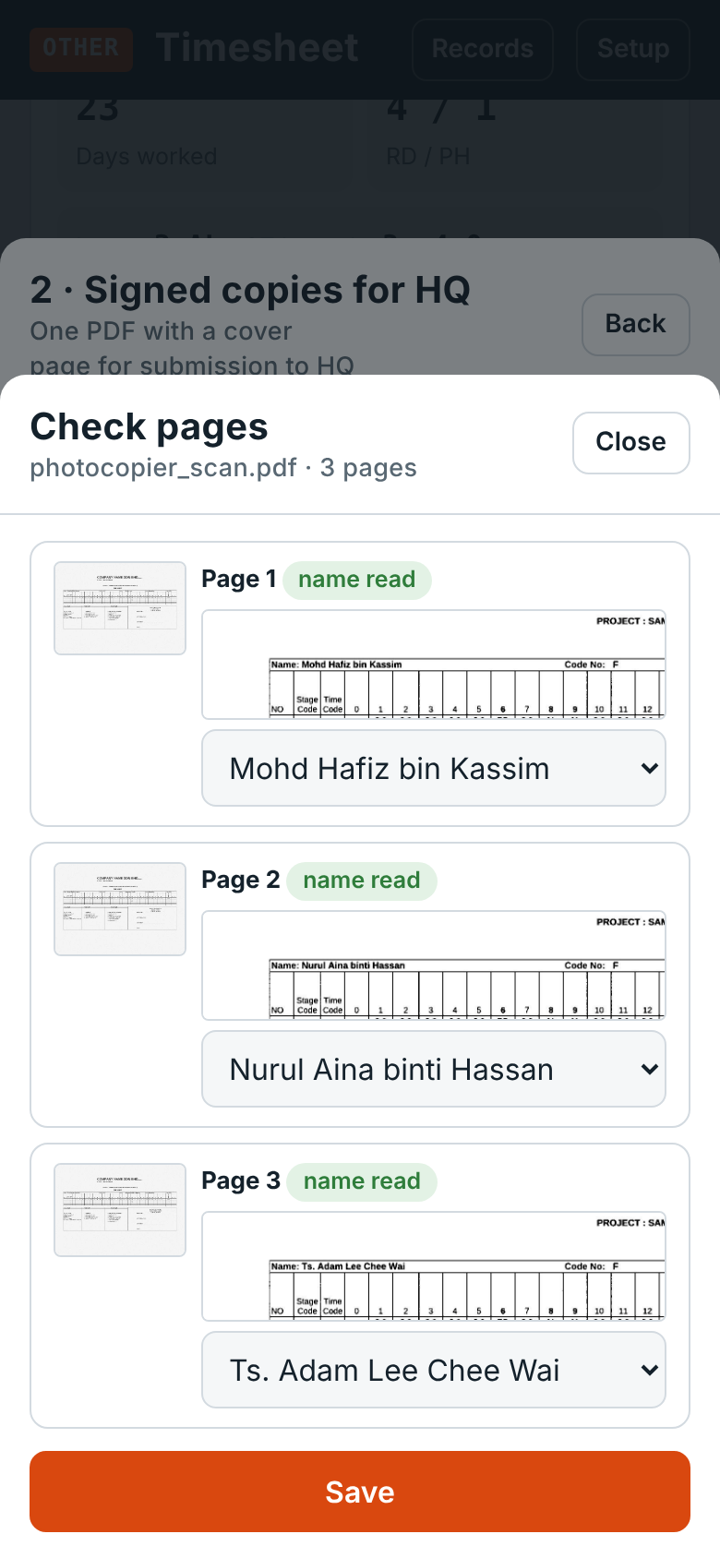
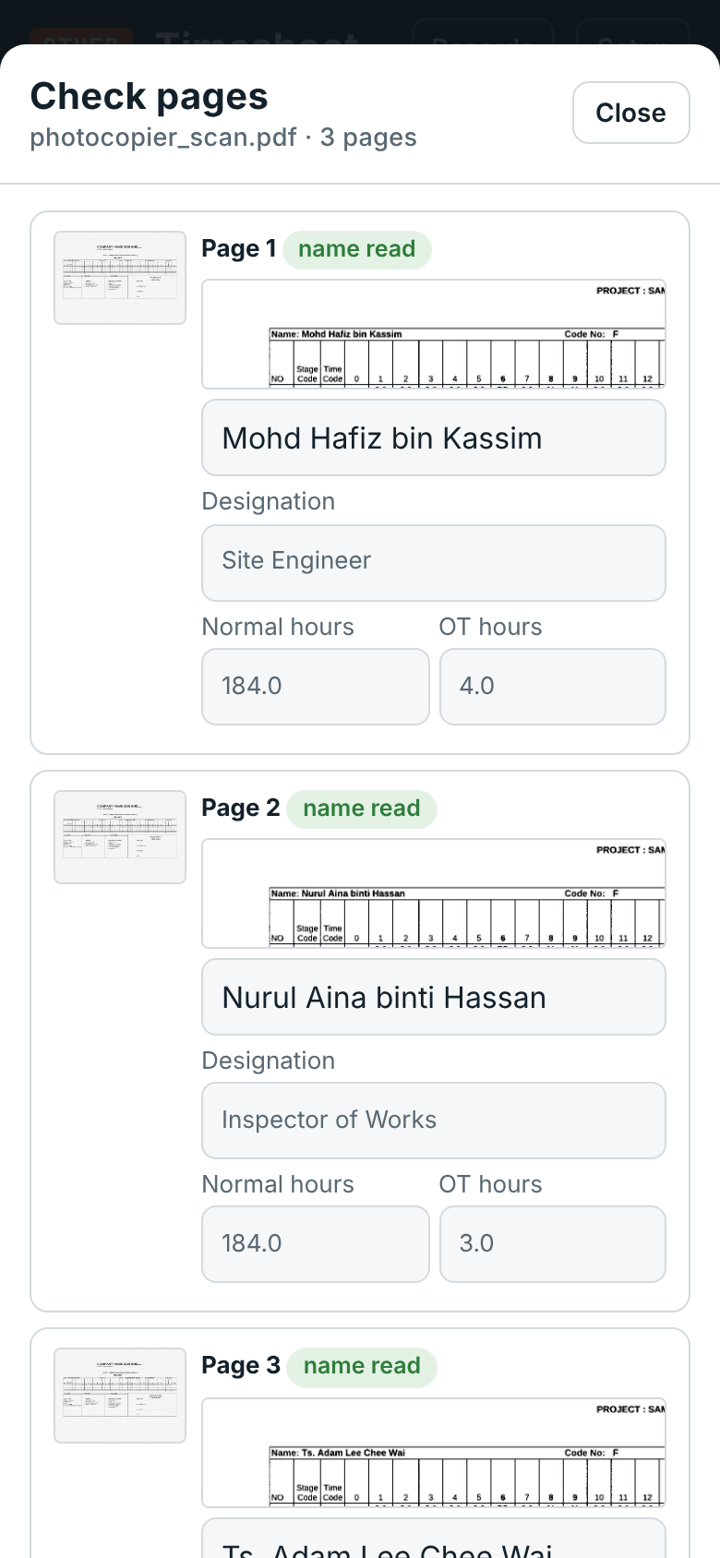
v0.9.7 beta

diff --git a/index.html b/index.html
@@ -475,7 +475,7 @@ table.tbl td.n{font-family:var(--f-mono);text-align:right}
    on the device. Credit: fixed in the app, not taken from any package.
    ================================================================ */
 const APP_NAME = "Timesheet";
-const APP_VERSION = "0.9.6";
+const APP_VERSION = "0.9.7";
 const APP_STAGE = "beta";
 const APP_AUTHOR = "WPN";
 const APP_CREDIT = `${APP_NAME} app developed by ${APP_AUTHOR}`;
@@ -1135,16 +1135,22 @@ function teamFor(who, ym) {
   return team.find(t => normName(t.profile.name) === n && (!ym || t.month === ym)) || team.find(t => normName(t.profile.name) === n) || null;
 }
 const ymFromLabel = m => { const x = /^([A-Za-z]+)\s+(\d{4})$/.exec(String(m || "").trim()); if (!x) return ""; const i = MONTHS.findIndex(mm => mm.toLowerCase().startsWith(x[1].toLowerCase().slice(0, 3))); return i < 0 ? "" : `${x[2]}-${pad2(i + 1)}`; };
+/* designation and hours for a scanned page: the team timesheet in the app, else the summary QR on the page */
+function pageInfo(who, ym, info) {
+  const d = teamFor(who, ym); let hrs = "", ot = "", desig = "";
+  if (d) { const sh = teamSheet(d), t = totals(sh.md, sh.y, sh.m); hrs = fmt1(t.rowSum[0]); ot = fmt1(t.ot); desig = d.profile.status || ""; ym = ym || d.month; }
+  else if (info && info.hrs != null) { hrs = fmt1(info.hrs); ot = fmt1(info.ot || 0); desig = info.desig || ""; }
+  return { who: d ? d.profile.name : who, ym, hrs, ot, desig };
+}
 function bundleRows(items, coverPages) {
   let page = coverPages + 1; const rows = [];
   const mShort = ym => { if (!ym) return ""; const [y, m] = ym.split("-").map(Number); return `${MONTHS[m - 1].slice(0, 3)} ${y}`; };
+  const applyEdit = (r, ed) => { if (!ed) return; if (ed.desig != null) r.desig = ed.desig; if (ed.hrs != null) { r.hrs = fmt1(ed.hrs); r.edited = true; } if (ed.ot != null) { r.ot = fmt1(ed.ot); r.edited = true; } };
   const push = (who, ym, n, info) => {
-    const last = rows[rows.length - 1];
-    if (last && who && normName(last.who) === normName(who) && last.ym === ym && last.from + last.pages === page) { last.pages += n; page += n; return; }
-    const d = teamFor(who, ym); let hrs = "", ot = "", desig = "";
-    if (d) { const sh = teamSheet(d), t = totals(sh.md, sh.y, sh.m); hrs = fmt1(t.rowSum[0]); ot = fmt1(t.ot); desig = d.profile.status || ""; ym = ym || d.month; }
-    else if (info && info.hrs != null) { hrs = fmt1(info.hrs); ot = fmt1(info.ot || 0); desig = info.desig || ""; }
-    rows.push({ no: rows.length + 1, who: d ? d.profile.name : who, desig, ym, month: mShort(ym), hrs, ot, pages: n, from: page }); page += n;
+    const last = rows[rows.length - 1], ed = info && info.edit;
+    if (last && who && normName(last.who) === normName(who) && last.ym === ym && last.from + last.pages === page) { last.pages += n; page += n; applyEdit(last, ed); return; }
+    const p = pageInfo(who, ym, info), r = { no: rows.length + 1, who: p.who, desig: p.desig, ym: p.ym, month: mShort(p.ym), hrs: p.hrs, ot: p.ot, pages: n, from: page };
+    applyEdit(r, ed); rows.push(r); page += n;
   };
   items.forEach(it => {
     const n = it.pages || 1, ym0 = it.ym || ymFromLabel(it.month);
@@ -1190,7 +1196,7 @@ function coverOps(items) {
     const take = pgi === 0 ? COVER_ROWS_FIRST : COVER_ROWS_NEXT;
     for (let k = 0; k < take && idx < rows.length; k++, idx++) {
       const r = rows[idx]; x = M;
-      [r.no, r.who || "—", r.desig, r.month || claim.replace(/^([A-Za-z]{3})[a-z]*/, "$1"), r.hrs || "—", r.ot || "—", r.pages, r.from].forEach((v, ci) => { const [, w, a] = cols[ci]; T(v, a === "right" ? x + w - 5 : x + 5, y + 12.5, 8.5, ci === 1 ? 1 : 0, "14212B", a, w - 8); x += w; });
+      [r.no, r.who || "—", r.desig, r.month || claim.replace(/^([A-Za-z]{3})[a-z]*/, "$1"), r.hrs ? r.hrs + (r.edited ? "*" : "") : "—", r.ot ? r.ot + (r.edited ? "*" : "") : "—", r.pages, r.from].forEach((v, ci) => { const [, w, a] = cols[ci]; T(v, a === "right" ? x + w - 5 : x + 5, y + 12.5, 8.5, ci === 1 ? 1 : 0, "14212B", a, w - 8); x += w; });
       ops.push({ k: "line", x1: M, y1: y + 18, x2: W - M, y2: y + 18, w: 0.4, color: "C9D1D7" }); y += 18;
     }
     if (idx >= rows.length) {
@@ -1200,7 +1206,7 @@ function coverOps(items) {
       T(sumH ? fmt1(sumH) : "—", x + 46 - 5, y + 13, 8.5, 1, "14212B", "right"); T(sumO ? fmt1(sumO) : "—", x + 46 + 38 - 5, y + 13, 8.5, 1, "14212B", "right");
       T(rows.reduce((a, r) => a + r.pages, 0), x + 46 + 38 + 35 - 5, y + 13, 8.5, 1, "14212B", "right");
       y += 19;
-      T("Hours are from the team timesheets in the app where the name matches. The signed copies attached are the record.", M, y + 14, 7.5, 0, "596873", "left", CW);
+      T(`Hours are from the team timesheets in the app or the summary QR on the page${rows.some(r => r.edited) ? "; * entered by the compiler from the signed copy" : ""}. The signed copies attached are the record.`, M, y + 14, 7.5, 0, "596873", "left", CW);
       const miss = missingFromScans(items);
       if (miss.length) T(`Pending, not in this submission: ${miss.map(d => d.profile.name).join(", ")}`, M, y + 28, 8, 1, "9A5B00", "left", CW);
     }
@@ -2330,6 +2336,18 @@ async function analysePages(blob, type) {
   if (ocrErr) toast(ocrErr + ". Pages were matched in print order: please check them.");
   return out;
 }
+/* designation / normal hrs / OT boxes for one page in Check pages */
+function pcFields(k, l) {
+  const a = l && l.who ? pageInfo(l.who, l.ym, l) : { desig: "", hrs: "", ot: "" }, ed = (l && l.edit) || {};
+  const val = (f, auto) => ed[f] != null ? (f === "desig" ? ed[f] : fmt1(ed[f])) : auto;
+  const miss = l && l.who && !a.hrs && ed.hrs == null;
+  return `<div data-pcf="${k}" style="display:grid;grid-template-columns:1fr 1fr;gap:5px">
+    <label class="small muted" style="display:grid;gap:2px;grid-column:1/-1">Designation<input type="text" data-f="desig" data-auto="${esc(a.desig)}" value="${esc(val("desig", a.desig))}" placeholder="Designation"></label>
+    <label class="small muted" style="display:grid;gap:2px">Normal hours<input type="text" inputmode="decimal" data-f="hrs" data-auto="${esc(a.hrs)}" value="${esc(val("hrs", a.hrs))}" placeholder="hrs"></label>
+    <label class="small muted" style="display:grid;gap:2px">OT hours<input type="text" inputmode="decimal" data-f="ot" data-auto="${esc(a.ot)}" value="${esc(val("ot", a.ot))}" placeholder="hrs"></label>
+    ${ed.hrs != null || ed.ot != null || ed.desig != null ? `<span class="small" style="grid-column:1/-1;color:var(--accent)">Entered by you (marked * on the cover page)</span>` : `<span class="small" data-pch style="grid-column:1/-1;color:var(--warn)">${miss ? "No hours found: type them from the signed copy" : ""}</span>`}
+  </div>`;
+}
 async function openPageCheck(id) {
   const it = await DB.get(id); if (!it) return;
   const names = team.map(d => d.profile.name), labels = it.labels || [], thumbs = it.thumbs || [], crops = it.crops || [];
@@ -2339,10 +2357,31 @@ async function openPageCheck(id) {
       <img src="${thumbs[k] || ""}" alt="" style="width:72px;border:1px solid var(--line);border-radius:4px;background:#fff">
       <div style="display:grid;gap:5px;min-width:0"><b class="small">Page ${k + 1} <span class="tag ${l.via === "qr" || l.via === "name" ? "ok" : "need"}">${VIA[l.via] || "not recognised"}</span></b>
         ${crops[k] ? `<img src="${crops[k]}" alt="Name as read" style="width:100%;border:1px solid var(--line);border-radius:4px">` : ""}
-        <select data-pk="${k}"><option value="">— not a team timesheet / unknown —</option>${names.map(n => `<option ${normName(n) === normName(l.who || "") ? "selected" : ""}>${esc(n)}</option>`).join("")}${l.who && !names.some(n => normName(n) === normName(l.who)) ? `<option selected>${esc(l.who)}</option>` : ""}</select></div></div>`; }).join("")}</div>
+        <input type="text" data-pk="${k}" value="${esc(l.who || "")}" placeholder="Name (blank: not a timesheet)" list="team-names" aria-label="Name on page ${k + 1}">
+        ${pcFields(k, l)}</div></div>`; }).join("")}</div>
+    <p class="small muted" style="margin:4px 0 0">Designation and hours come from the team list or the summary QR. If they are missing or differ from the signed copy, type them in: the cover page uses what you enter and marks the hours with *. Clear a box to go back to the automatic value.</p>
     <button class="btn acc" type="button" id="pc-save">Save</button>`);
+  // a new name fills the boxes it has not been typed in (the boxes are updated in place, so a tap on them is not lost)
+  $("#gen-body").onchange = e => {
+    const inp = e.target.closest("input[data-pk]"); if (!inp) return;
+    const k = Number(inp.dataset.pk), box = $(`#gen-body [data-pcf="${k}"]`), who = inp.value.trim(); if (!box) return;
+    const d = teamFor(who), l = labels[k] || {}, a = who ? pageInfo(d ? d.profile.name : who, d ? d.month : l.ym, normName(l.who || "") === normName(who) ? l : {}) : { desig: "", hrs: "", ot: "" };
+    ["desig", "hrs", "ot"].forEach(f => { const el = box.querySelector(`[data-f="${f}"]`); if (el && (el.value === "" || el.value === el.dataset.auto)) el.value = a[f]; if (el) el.dataset.auto = a[f]; });
+    const hint = box.querySelector("[data-pch]"); if (hint) hint.textContent = who && !box.querySelector('[data-f="hrs"]').value ? "No hours found: type them from the signed copy" : "";
+  };
   $("#pc-save").onclick = async () => {
-    $$("#gen-body select[data-pk]").forEach(sel => { const k = Number(sel.dataset.pk), who = sel.value, d = teamFor(who); labels[k] = who ? Object.assign({}, labels[k] || {}, { who, ym: d ? d.month : (labels[k] || {}).ym || "", via: (labels[k] || {}).who === who ? (labels[k] || {}).via : "checked" }) : null; if (labels[k] && labels[k].via !== "qr" && labels[k].via !== "name") labels[k].via = "checked"; });
+    $$("#gen-body input[data-pk]").forEach(inp => {
+      const k = Number(inp.dataset.pk), typed = inp.value.trim(), d = teamFor(typed), who = d ? d.profile.name : typed, old = labels[k] || {};
+      labels[k] = who ? Object.assign({}, old, { who, ym: d ? d.month : old.ym || "", via: normName(old.who || "") === normName(who) ? old.via : "checked" }) : null;
+      if (!labels[k]) return;
+      if (labels[k].via !== "qr" && labels[k].via !== "name") labels[k].via = "checked";
+      const auto = pageInfo(labels[k].who, labels[k].ym, labels[k]), v = f => ($(`#gen-body [data-pcf="${k}"] [data-f="${f}"]`) || {}).value, num = x => { const n = parseFloat(String(x || "").replace(",", ".")); return isFinite(n) && n >= 0 ? Math.round(n * 10) / 10 : null; };
+      const ed = {}, dg = (v("desig") || "").trim(), h = num(v("hrs")), o = num(v("ot"));
+      if (dg && dg !== auto.desig) ed.desig = dg;
+      if (h != null && fmt1(h) !== auto.hrs) ed.hrs = h;
+      if (o != null && fmt1(o) !== auto.ot) ed.ot = o;
+      if (Object.keys(ed).length) labels[k].edit = ed; else delete labels[k].edit;
+    });
     it.labels = labels; await DB.put(it); closeSheet("#sh-gen"); renderHQ(); toast("Pages saved.");
   };
 }
@@ -2427,8 +2466,8 @@ async function renderHQ() {
       <div style="display:grid;gap:5px;min-width:0">${it.pages > 1 && (it.labels || []).some(Boolean) ? `<b style="font-size:14.5px">${esc(it.name)}</b>` : `<input type="text" value="${esc(it.who)}" placeholder="Name" data-bmeta="${it.id}|who" aria-label="Name" list="team-names">
       <input type="text" value="${esc(it.month)}" placeholder="Month, e.g. September 2026" data-bmeta="${it.id}|month" aria-label="Month">`}
       <span class="small muted">${i + 1}. ${it.type === "application/pdf" ? `PDF, ${it.pages} page${it.pages > 1 ? "s" : ""}` : "Scan"}${(it.labels || []).length ? ` · ${it.labels.filter(Boolean).length} recognised` : ""}</span>
-      ${(it.labels || []).length ? `<span class="small">${(() => { const L = it.labels, c = v => L.filter(l => l && l.via === v).length, n = L.filter(l => !l || !l.who).length; return [c("qr") + c("name") ? `<span class="tag ok">${c("qr") + c("name")} read</span>` : "", c("checked") ? `<span class="tag ok">${c("checked")} checked</span>` : "", c("order") + c("unsure") ? `<span class="tag need">${c("order") + c("unsure")} to check</span>` : "", n ? `<span class="tag need">${n} unknown</span>` : ""].join(" "); })()}</span>
-      <button class="btn sm" type="button" data-pcheck="${it.id}" style="justify-self:start">Check pages</button>` : ""}</div>
+      ${(it.labels || []).length ? `<span class="small">${(() => { const L = it.labels, c = v => L.filter(l => l && l.via === v).length, n = L.filter(l => !l || !l.who).length; return [c("qr") + c("name") ? `<span class="tag ok">${c("qr") + c("name")} read</span>` : "", c("checked") ? `<span class="tag ok">${c("checked")} checked</span>` : "", c("order") + c("unsure") ? `<span class="tag need">${c("order") + c("unsure")} to check</span>` : "", n ? `<span class="tag need">${n} unknown</span>` : "", (() => { const nh = L.filter(l => l && l.who && !pageInfo(l.who, l.ym, l).hrs && !(l.edit && l.edit.hrs != null)).length; return nh ? `<span class="tag need">${nh} without hours</span>` : ""; })()].join(" "); })()}</span>` : ""}
+      <button class="btn sm" type="button" data-pcheck="${it.id}" style="justify-self:start">Check pages</button></div>
       <div class="ctl"><button type="button" data-bmove="${it.id}|-1" aria-label="Move up">▲</button><button type="button" data-bmove="${it.id}|1" aria-label="Move down">▼</button>
       ${it.type.startsWith("image/") ? `<button type="button" data-brot="${it.id}" aria-label="Rotate">⟳</button>` : ""}<button type="button" data-bdel="${it.id}" aria-label="Remove">✕</button></div></div>`;
   }
@@ -2457,7 +2496,7 @@ async function renderHQ() {
    ================================================================ */
 function openSheet(id) { $(id).hidden = false; document.body.style.overflow = "hidden"; }
 function closeSheet(id) { $(id).hidden = true; if (!$$(".sheet:not([hidden])").length && $("#cam").hidden) document.body.style.overflow = ""; }
-function genSheet(title, sub, html) { $("#gen-title").firstChild.textContent = title; $("#gen-sub").textContent = sub || ""; $("#gen-body").innerHTML = html; openSheet("#sh-gen"); }
+function genSheet(title, sub, html) { $("#gen-title").firstChild.textContent = title; $("#gen-sub").textContent = sub || ""; $("#gen-body").innerHTML = html; $("#gen-body").onchange = null; openSheet("#sh-gen"); }
 let toastT = 0;
 function toast(msg) { const t = $("#toast"); t.textContent = msg; t.hidden = false; clearTimeout(toastT); toastT = setTimeout(() => t.hidden = true, 3200); }
 

diff --git a/sw.js b/sw.js
@@ -1,6 +1,6 @@
 /* Offline use: network first (so updates arrive), cached copy when there is no signal.
    Bump the version after changing files so phones fetch the new ones. */
-const C = "ts-v0.9.6";
+const C = "ts-v0.9.7";
 const PRE = ["./", "index.html", "manifest.webmanifest", "icon-192.png", "icon-512.png",
   "lib/jspdf.umd.min.js", "lib/jszip.min.js", "lib/pdf-lib.min.js", "lib/qrcode.min.js", "lib/jsQR.min.js", "lib/pdfjs.min.js", "lib/pdfjs.worker.min.js",
   "app-data.js", "templates/form.xlsx", "templates/form.layout.json", "templates/logo.jpeg",

diff --git a/tests/test_cover_edit.py b/tests/test_cover_edit.py
@@ -1,0 +1,73 @@
+"""Compiler enters designation and hours in Check pages when the scan has none.
+
+    python3 -m http.server 8765 &
+    python3 tests/test_cover_edit.py
+
+Page 1: a name not in the team list and no QR, so no hours: the compiler types them.
+Page 2: a team member whose hours differ from the signed copy: the compiler corrects OT.
+Both show on the cover page marked *; clearing a box goes back to the automatic value.
+"""
+from playwright.sync_api import sync_playwright
+
+URL = "http://localhost:8765/index.html"
+errors = []
+
+with sync_playwright() as p:
+    br = p.chromium.launch()
+    pg = br.new_page(viewport={"width": 390, "height": 844})
+    pg.on("pageerror", lambda e: errors.append(str(e)))
+    pg.on("dialog", lambda d: d.accept())
+    pg.goto(URL)
+    pg.wait_for_selector("#w-name")
+    pg.fill("#w-name", "Ts. Adam Lee Chee Wai"); pg.click("#w-go")
+    item = pg.evaluate("""async () => {
+        S.ui.y = 2026; S.ui.m = 8; save(); fillMonth(false); S.profile.status = 'Resident Engineer'; S.role = 'compiler'; save();
+        team = []; addTeamRecord(dataRecord()); saveTeam();
+        const blob = await makePDF([sheetFor(2026, 8), sheetFor(2026, 8)], 't');
+        const id = uid();
+        await DB.put({ id, scope: 'bundle', name: 'scan.pdf', type: 'application/pdf', blob, order: 1, pages: 2,
+          labels: [{ who: '', via: 'unsure', raw: '???' }, { who: 'Ts. Adam Lee Chee Wai', ym: '2026-09', via: 'name' }],
+          thumbs: [], crops: [], who: '', month: '', ym: '', rotate: 0, added: new Date().toISOString() });
+        render(); return id;
+    }""")
+    pg.evaluate(f"() => openPageCheck('{item}')")
+    pg.wait_for_selector('#gen-body input[data-pk="0"]')
+    # page 2 is prefilled from the team list
+    assert pg.input_value('#gen-body [data-pcf="1"] [data-f="hrs"]') != "", "page 2 hours prefilled"
+    assert pg.input_value('#gen-body [data-pcf="1"] [data-f="desig"]') == "Resident Engineer"
+    # page 1: type a name not in the team list, then the boxes are empty and flagged
+    pg.fill('#gen-body input[data-pk="0"]', "Lim Mei Ling"); pg.dispatch_event('#gen-body input[data-pk="0"]', "change"); pg.click('#gen-body [data-pcf="0"] [data-f="desig"]')
+    assert pg.input_value('#gen-body [data-pcf="0"] [data-f="hrs"]') == ""
+    assert "No hours found" in pg.inner_text('#gen-body [data-pcf="0"]')
+    pg.fill('#gen-body [data-pcf="0"] [data-f="desig"]', "Inspector of Works")
+    pg.fill('#gen-body [data-pcf="0"] [data-f="hrs"]', "176")
+    pg.fill('#gen-body [data-pcf="0"] [data-f="ot"]', "6,5")
+    pg.fill('#gen-body [data-pcf="1"] [data-f="ot"]', "3")
+    pg.click("#pc-save"); pg.wait_for_timeout(300)
+    r = pg.evaluate("""async () => {
+        const items = await bundleItems(), rows = bundleRows(items, 1);
+        const ops = coverOps(items), txt = JSON.stringify(ops);
+        return { rows: rows.map(r => [r.who, r.desig, r.hrs, r.ot, !!r.edited]), labels: items[0].labels.map(l => l && l.edit),
+                 star: txt.includes('176.0*') && txt.includes('6.5*') && txt.includes('3.0*'), note: txt.includes('entered by the compiler'),
+                 tag: document.querySelector('#b-list').innerText };
+    }""")
+    print(r)
+    assert r["rows"][0] == ["Lim Mei Ling", "Inspector of Works", "176.0", "6.5", True], r["rows"][0]
+    assert r["rows"][1][3] == "3.0" and r["rows"][1][4], r["rows"][1]
+    assert r["labels"][1] == {"ot": 3}, r["labels"]           # only what differs is kept
+    assert r["star"] and r["note"]
+    assert "without hours" not in r["tag"]
+    # clearing the OT box on page 2 returns to the automatic value
+    pg.evaluate(f"() => openPageCheck('{item}')")
+    pg.wait_for_selector('#gen-body [data-pcf="1"]')
+    assert "Entered by you" in pg.inner_text('#gen-body [data-pcf="1"]')
+    pg.fill('#gen-body [data-pcf="1"] [data-f="ot"]', "")
+    pg.click("#pc-save"); pg.wait_for_timeout(300)
+    r2 = pg.evaluate("async () => { const it = (await bundleItems())[0]; return [bundleRows([it], 1)[1].ot, it.labels[1].edit || null]; }")
+    print(r2)
+    assert r2 == ["0.0", None], r2
+    br.close()
+
+print("errors:", errors)
+assert not errors
+print("OK")

diff --git a/README.md b/README.md
@@ -4,7 +4,7 @@ A web app for the monthly project timesheet. Each staff member keys in the month
 
 It works on iPhone, Android and laptop, in the browser, with nothing to install from an app store, and it keeps working without signal once opened. It can also be opened straight from a folder on a laptop (double-click `index.html`).
 
-**Developed by WPN.** Version 0.9.6 (beta, trial within the team). **New to the app?** Read the [user guide](GUIDE.md). Plan: [ROADMAP.md](ROADMAP.md).
+**Developed by WPN.** Version 0.9.7 (beta, trial within the team). **New to the app?** Read the [user guide](GUIDE.md). Plan: [ROADMAP.md](ROADMAP.md).
 
 <p><img src="screenshot-app.png" alt="The month on a phone: calendar with hours, RD, PH, AL and overtime" width="280"></p>
 
@@ -29,7 +29,7 @@ Filling in the timesheet spreadsheet at the end of the month needs a laptop. The
 | **Signature block** | As the original form by default; the RE's and SOR's names can print under their lines. Option: side by side (PYKP beside SOR) for more room for stamps. |
 | **Roles** | *Staff*, *Compiler* or *RE* (Setup). Staff see only their own timesheet; the compiler and RE also get HQ submission; only the RE can sign digitally under *Verified by PYKP*, with a PIN. |
 | **Digital signature** (optional, off by default) | The timesheet is normally signed by hand. If switched on in Setup: draw your signature or take a photo of it, protected by a PIN. **Sign** puts it on your timesheet; a drawn signature goes with your QR to the RE, who can sign the whole team in one go. A signature is dropped if the hours change after signing. Its position can be dragged and resized. The SOR still signs and stamps the hardcopy. |
-| **Scan matching** | No marks on the form: the app reads the printed name on each scanned page (offline text recognition) and matches it to the team list; pages it cannot read follow the print order; **Check pages** to confirm. Optional mark under the form, chosen on the Print / PDF screen: a **Summary QR** (about 13 mm: project, month, name, designation, normal and OT hours) or a 28 mm full data QR; none by default. |
+| **Scan matching** | No marks on the form: the app reads the printed name on each scanned page (offline text recognition) and matches it to the team list; pages it cannot read follow the print order; **Check pages** to confirm the name, and to type or correct the designation, normal and OT hours for the cover page (marked * when entered by the compiler). Optional mark under the form, chosen on the Print / PDF screen: a **Summary QR** (about 13 mm: project, month, name, designation, normal and OT hours) or a 28 mm full data QR; none by default. |
 | **HQ submission** | For the compiler. **1 · Team timesheets**: scan everyone's QR, preview, then print all the timesheets in one PDF for signature, or **one Excel workbook with a sheet per person**, or a summary CSV. **2 · Signed copies**: add the photocopier's scan PDF (or scan sheet by sheet); the names are read from the pages, **Check pages**, preview, then make **one PDF** with a digitally generated cover page (list of timesheets with hours and page numbers, app QR) and numbered pages. |
 | **Feedback** | *Send feedback on WhatsApp* with the app version and phone type filled in. Set a number in `packages/index.json` (`feedbackWhatsApp`) to send it straight to the app owner. |
 | **Works offline** | Once opened, it works without signal. |
@@ -120,6 +120,7 @@ Set `appUrl` in `packages/index.json` to the app's address so the HQ cover page 
 | `tests/test_app.py` | Automatic check: fills a sample month; checks totals, status undo, QR round trip, document scanner steps, PDF, Excel and HQ PDF |
 | `tests/test_id_mark.py` | Automatic check: the summary QR stays small (29 × 29 squares, about 13 mm) and its name, designation and hours are read from a noisy 200 dpi scan |
 | `tests/test_sign_scan.py` | Automatic check: PIN, roles, signature dropped when hours change, signatures in the QR, PDF and Excel; a simulated 200 dpi photocopier scan recognised page by page and the team list rebuilt from it |
+| `tests/test_cover_edit.py` | Automatic check: the compiler types designation and hours in Check pages; the cover page uses them, marked *; clearing a box restores the automatic value |
 | `GUIDE.md`, `ROADMAP.md`, `CHANGELOG.md`, `LICENSE.md` | User guide, trial plan, version history, licence |
 
 ## Important

diff --git a/GUIDE.md b/GUIDE.md
@@ -1,6 +1,6 @@
 # Timesheet – User Guide
 
-For app version 0.9.6 (beta). **Open the app:** the link shared in your team's WhatsApp group, or scan the QR code on a colleague's phone (Setup → **Share the app**).
+For app version 0.9.7 (beta). **Open the app:** the link shared in your team's WhatsApp group, or scan the QR code on a colleague's phone (Setup → **Share the app**).
 
 The letterhead, project title and names in the screenshots are samples.
 
@@ -135,11 +135,13 @@ Set your role to **Compiler** or **RE** in Setup. **HQ submission** appears at t
 
 1. After the SOR has signed, scan the whole stack on the photocopier into one PDF and send it to your phone.
 2. **Add scan PDF** and pick it. The app reads the printed name on each page and matches it to the team list (pages turned sideways are fine). Pages it cannot read take the remaining names in print order. (Or **Scan pages** with the phone, one sheet after another.)
-3. Tap **Check pages**: each page shows a thumbnail, the name line as read, and a name picker. Correct any page, then **Save**.
+3. Tap **Check pages**: each page shows a thumbnail, the name line as read, the name, and the **designation, normal hours and OT hours** for the cover page. Correct any page, then **Save**.
+   - Hours come from the team list (QR collected in screen 1) or the summary QR on the page. If a box is empty (*No hours found*) or differs from the signed copy, type the figures from the signed copy. The cover page uses what you typed and marks those hours with **\***.
+   - A name not in the team list can be typed in. Clear a box to go back to the automatic value.
 4. Set the **timesheet month** and **compiled by**, keep **Cover page** ticked.
 5. **Preview** shows the cover page and every page; then **Make HQ PDF** and send it to HQ.
 
-<p><img src="guide/17_bundle.png" alt="Signed copies for HQ: the photocopier PDF, 3 pages read" width="260">&nbsp;<img src="guide/18_check_pages.png" alt="Check pages: each page with the name as read and a name picker" width="260"></p>
+<p><img src="guide/17_bundle.png" alt="Signed copies for HQ: the photocopier PDF, 3 pages read" width="260">&nbsp;<img src="guide/18_check_pages.png" alt="Check pages: each page with the name as read, the name, designation, normal and OT hours" width="260"></p>
 
 The cover page is generated digitally (no signature needed): the list of timesheets with designation, normal hours, OT, pages and page numbers, anyone still pending, and the app QR. Every page of the HQ PDF is numbered.
 

diff --git a/CHANGELOG.md b/CHANGELOG.md
@@ -2,6 +2,12 @@
 
 Versions before 1.0.0 are for testing. 1.0.0 will be the first public release.
 
+## v0.9.7 beta – 16 October 2026
+
+- **Check pages: designation and hours editable.** For each scanned page the compiler can type or correct the designation, normal hours and OT hours used on the cover page, e.g. when the scan has no QR and the person is not in the team list. Entered hours are marked * on the cover page with a note. Clear a box to go back to the automatic value.
+- A name not in the team list can be typed in Check pages, and **Check pages** is available for every scan.
+- The HQ list flags pages **without hours**.
+
 ## v0.9.6 beta – 16 October 2026
 
 - **Digital signature is opt-in** (Setup → Digital signature, off by default): the timesheet is normally signed by hand. When on, *Sign & signed copy* has **Sign this month**, **Remove from this month** and **Change or delete my signature** in one place.

diff --git a/ROADMAP.md b/ROADMAP.md
@@ -1,6 +1,6 @@
 # Roadmap
 
-**Now: v0.9.6 beta.** A trial within the project team. The app is feature-complete for what it is meant to do:
+**Now: v0.9.7 beta.** A trial within the project team. The app is feature-complete for what it is meant to do:
 
 1. Key in the month on the phone.
 2. Print the official form for hand signature.
